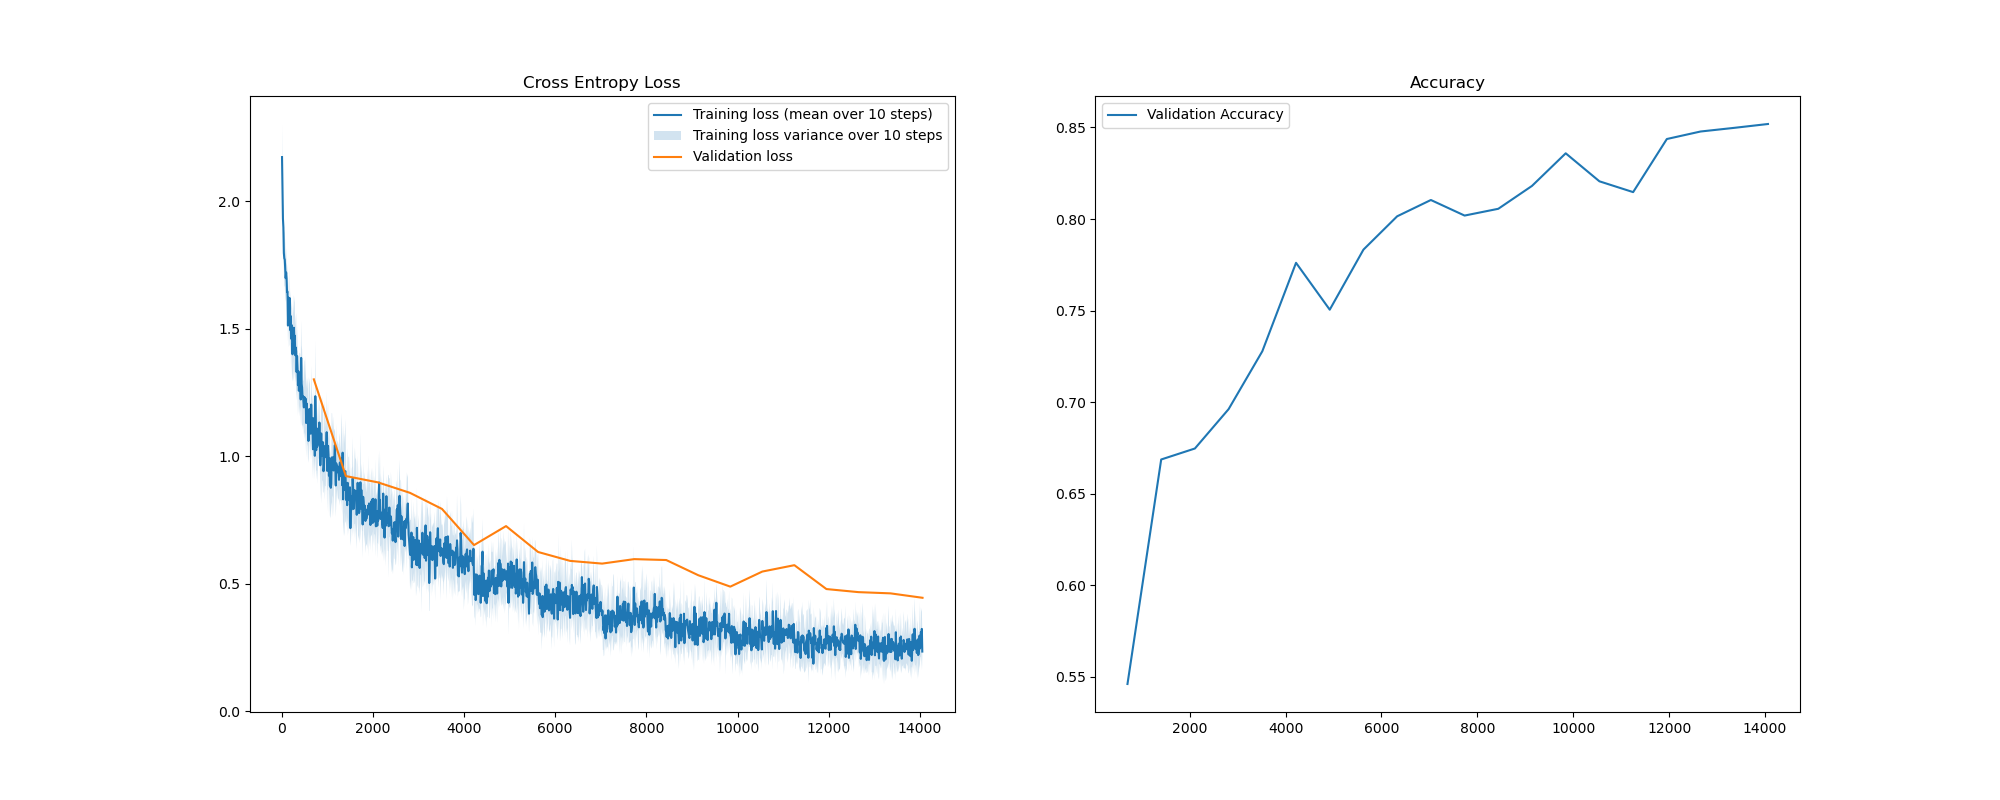
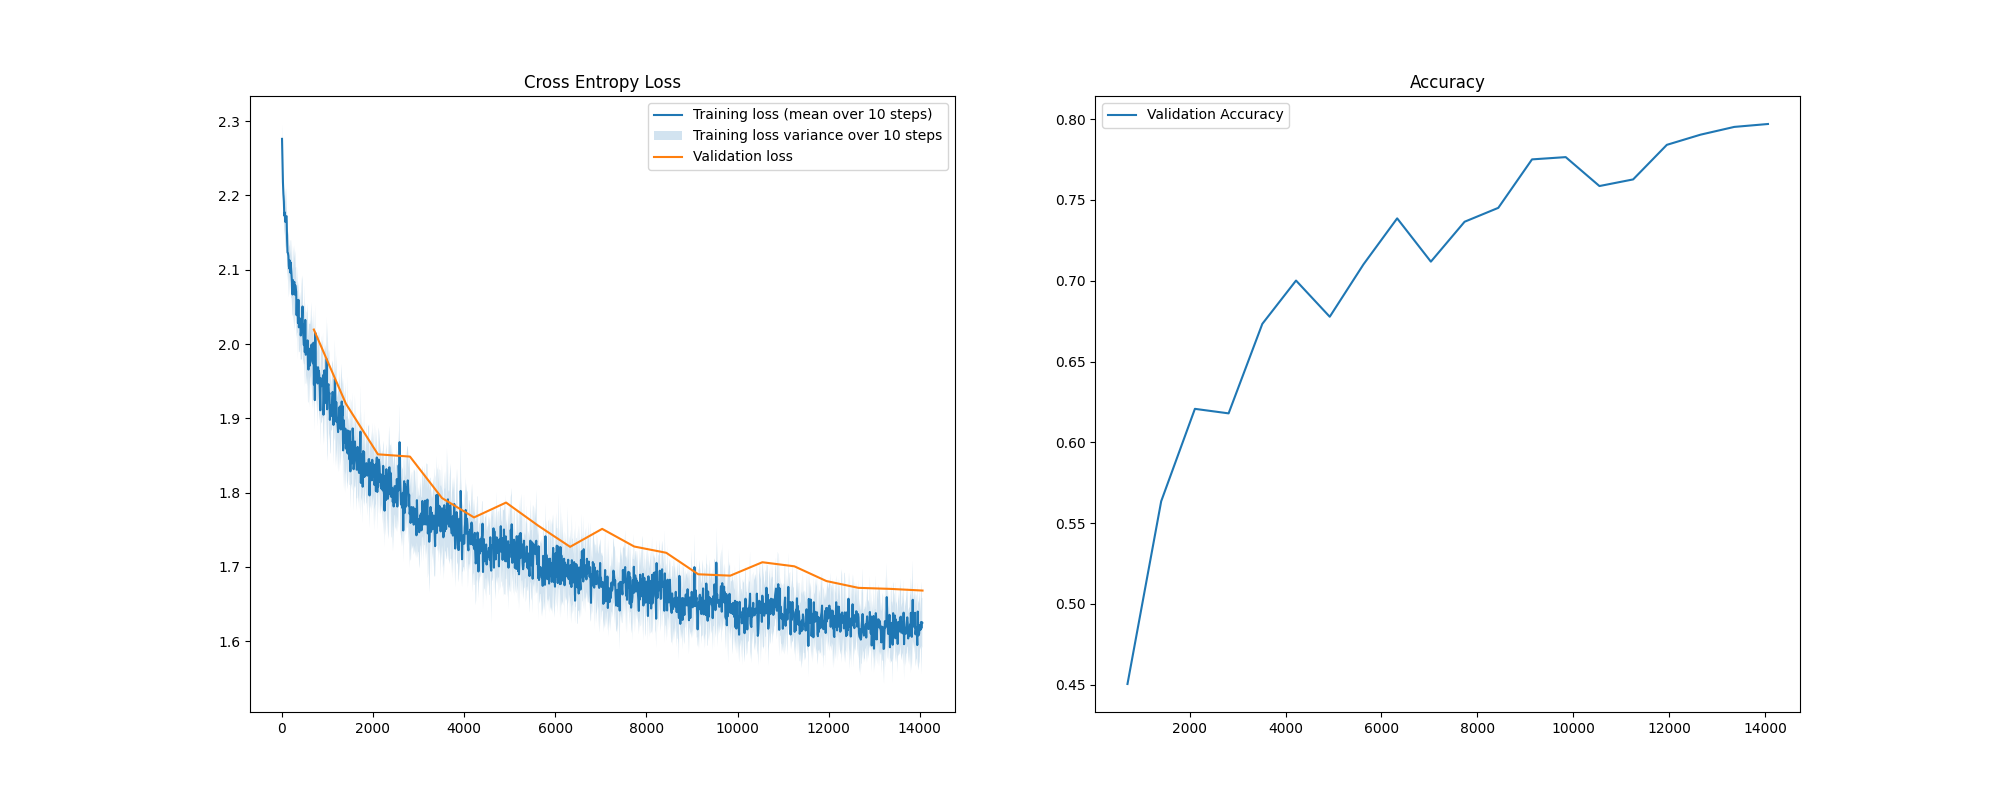
feat: new arch

diff --git a/assignment3/task2.py b/assignment3/task2.py
@@ -68,9 +68,15 @@ class ExampleModel(nn.Module):
             nn.ReLU(),
             
             nn.MaxPool2d(kernel_size=2, stride=2),    
-             
             nn.Conv2d(
                 in_channels=512,
+                out_channels=750,
+                kernel_size=kernel_size,
+                stride=stride,
+                padding=padding,
+            ), 
+            nn.Conv2d(
+                in_channels=750,
                 out_channels=1024,
                 kernel_size=kernel_size,
                 stride=stride,
@@ -99,7 +105,7 @@ class ExampleModel(nn.Module):
             nn.BatchNorm1d(64),
             nn.ReLU(),
             nn.Linear(64, num_classes),
-            # nn.Softmax()
+            # nn.Softmax(dim=1)
         )
 
     def forward(self, x):
@@ -142,7 +148,7 @@ def create_plots(trainer: Trainer, name: str):
 
 def main():
     # Set the random generator seed (parameters, shuffling etc).
-    # You can try to change this and check if you still get the same result!
+     # You can try to change this and check if you still get the same result!
     utils.set_seed(0)
     print(f"Using device: {utils.get_device()}")
     epochs = 10

diff --git a/test.py b/test.py
@@ -10,3 +10,4 @@ soble_kernel = np.array([[-1, 0, 1],
                          [-1, 0, 1]])
 
 print(scipy.ndimage.convolve(image,soble_kernel,mode='constant'))
+
